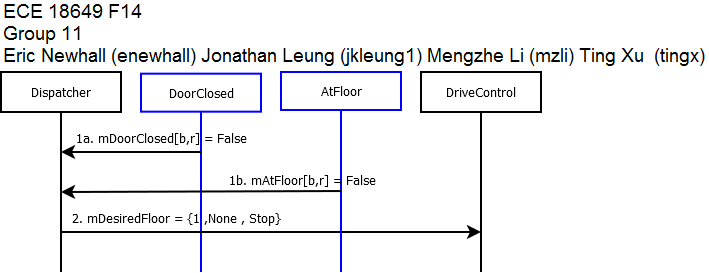
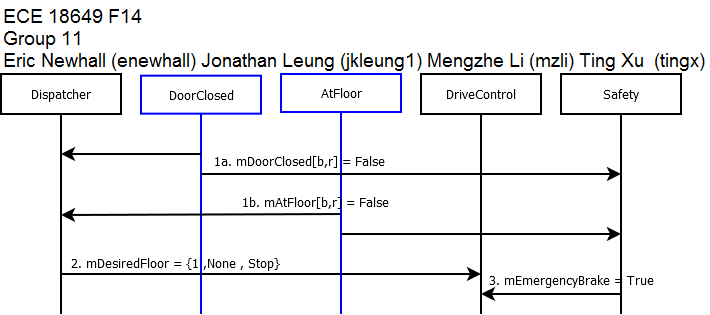
Added emergency brake to scenario 8b

Changed region(s): [[0.0, 0.0, 1.0, 0.9963], [0.0621, 0.6154, 0.5585, 0.7326]]

diff --git a/portfolio/scen_sd/scen_sd.html b/portfolio/scen_sd/scen_sd.html
@@ -48,6 +48,10 @@ Ting Xu  (tingx) <br>
     <li><a href="#scenario7c">Scenario 7C</a> </li>
   </ul>
   <li><a href="#usecase8">8. Move Car to Next Floor</a> </li>
+  <ul>
+    <li><a href="#scenario8a">Scenario 8A</a> </li>
+    <li><a href="#scenario8b">Scenario 9B</a> </li>
+  </ul>
   <li><a href="#usecase9">9. Cycle Doors</a></li>
 </ul>
 <div align="center">
@@ -559,7 +563,7 @@ doors close on a hallway. </h3>
 
 
 <h2> <a name="usecase8" id="usecase8"></a>Use Case 8: Move Car to NextFloor </h2>
-<h3> Scenario 8A: Elevator moves from {floor f, hallway b} to {floor g,hallway c} in direction d. </h3>
+<h3> <a name="scenario8a" id="scenario8a">Scenario 8A: Elevator moves from {floor f, hallway b} to {floor g,hallway c} in direction d. </h3>
 <p> Note: You will want to create other scenarios that involve fast speed for your elevator, but this is a starting point. </p>
 <h3> Author name: Jonathan Leung(jkleung1) </h3>
 <h3> Pre-Conditions: </h3>
@@ -586,7 +590,7 @@ doors close on a hallway. </h3>
 <div align="center">
 <hr size="2" width="100%" align="center"> </div>
 
-<h3> Scenario 8B: Send Elevator to Lobby when Doors are Open outside of Landing Zone </h3>
+<h3> <a name="scenario8b" id="scenario8b">Scenario 8B: Send Elevator to Lobby when Doors are Open outside of Landing Zone </h3>
 <h3> Author name: Jonathan Leung(jkleung1) </h3>
 <h3> Pre-Conditions: </h3>
 <ul type="disc">
@@ -596,6 +600,7 @@ doors close on a hallway. </h3>
 <ol start="1" type="1">
   <li>Dispatcher detects car is not in a landing zone with doors open</li>
   <li>Dispatcher sets DesiredFloor of car to floor 1</li>
+  <li>Emergency brake get turns on</li>
 </ol>
 <h3> Post-Conditions: </h3>
 <ul type="disc">
@@ -603,7 +608,7 @@ doors close on a hallway. </h3>
 </ul>
 <h3> Sequence Diagram: </h3>
 <p> <a href="sd8b.png"><img src="sd8b.png" alt="8A" name="_x0000_i1027"
- style="border: 0px solid ; width: 709px; height: 273px;"></a> </p>
+ style="border: 0px solid ; width: 710px; height: 315px;"></a> </p>
 <div align="center">
 <hr size="2" width="100%" align="center"> </div>
 <p> &nbsp; </p>
